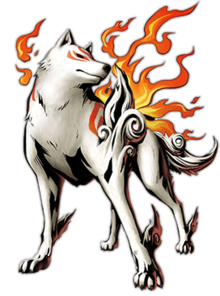
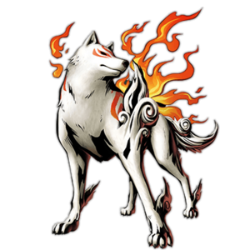
Creation Basement

diff --git a/src/view/SelectCharacterWindow.java b/src/view/SelectCharacterWindow.java
@@ -37,8 +37,8 @@ public class SelectCharacterWindow extends javax.swing.JFrame{
     public SelectCharacterWindow() throws IOException {
         initComponents();
         controller = Controller.getInstace();
-        background = ImageIO.read(new File("src/images/other/fondo.jpeg"));
-        background = background.getScaledInstance(600, 500, Image.SCALE_DEFAULT); 
+        background = ImageIO.read(new File("src/images/other/creationBasement.jpg"));
+        background = background.getScaledInstance(900, 600, Image.SCALE_DEFAULT); 
     }
     
     @Override
@@ -81,7 +81,7 @@ public class SelectCharacterWindow extends javax.swing.JFrame{
             .addGroup(javax.swing.GroupLayout.Alignment.TRAILING, layout.createSequentialGroup()
                 .addGap(166, 166, 166)
                 .addComponent(btnLeft)
-                .addPreferredGap(javax.swing.LayoutStyle.ComponentPlacement.RELATED, 440, Short.MAX_VALUE)
+                .addPreferredGap(javax.swing.LayoutStyle.ComponentPlacement.RELATED, 420, Short.MAX_VALUE)
                 .addComponent(btnRight)
                 .addGap(128, 128, 128))
         );
@@ -92,7 +92,7 @@ public class SelectCharacterWindow extends javax.swing.JFrame{
                 .addGroup(layout.createParallelGroup(javax.swing.GroupLayout.Alignment.LEADING, false)
                     .addComponent(btnLeft, javax.swing.GroupLayout.DEFAULT_SIZE, javax.swing.GroupLayout.DEFAULT_SIZE, Short.MAX_VALUE)
                     .addComponent(btnRight, javax.swing.GroupLayout.DEFAULT_SIZE, javax.swing.GroupLayout.DEFAULT_SIZE, Short.MAX_VALUE))
-                .addContainerGap(263, Short.MAX_VALUE))
+                .addContainerGap(287, Short.MAX_VALUE))
         );
 
         pack();

diff --git a/src/controller/Controller.java b/src/controller/Controller.java
@@ -102,11 +102,11 @@ public class Controller {
             indexCharacter = CharacterFactory.getValues().size() - 1;
         Character character = (Character) CharacterFactory.getValues().get(indexCharacter);
         image = ImageIO.read(new File(character.getImages().get(0)));
-        image = image.getScaledInstance(150, 150, Image.SCALE_DEFAULT); 
+        image = image.getScaledInstance(250, 250, Image.SCALE_DEFAULT); 
     }
     
     public void draw(Graphics g){
-        g.drawImage(image, 100, 100, null);
+        g.drawImage(image, 300, 220, null);
     }
     
     //Crea los prototipos de armas predefinidos en el juego
